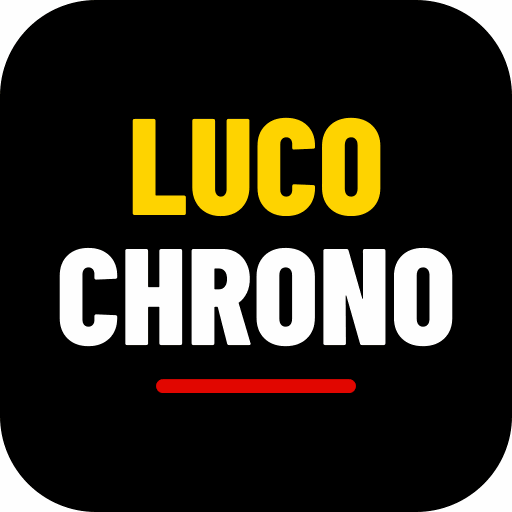
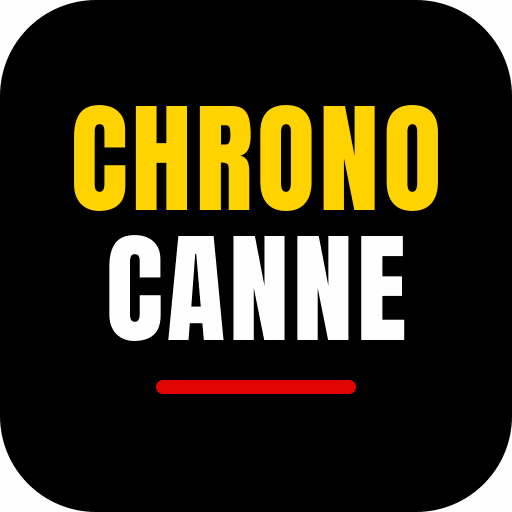
Nouveau nom : CHRONO CANNE, et nouvelle icône
L'adresse du site et le dépôt restent luco-chrono.

Changed region(s): [[0.0938, 0.1875, 0.9062, 0.6875]]

diff --git a/index.html b/index.html
@@ -12,8 +12,8 @@
 <meta name="apple-mobile-web-app-capable" content="yes">
 <meta name="mobile-web-app-capable" content="yes">
 <meta name="apple-mobile-web-app-status-bar-style" content="black">
-<meta name="apple-mobile-web-app-title" content="LUCO CHRONO">
-<title>LUCO CHRONO</title>
+<meta name="apple-mobile-web-app-title" content="CHRONO CANNE">
+<title>CHRONO CANNE</title>
 <!-- Polices réduites aux caractères latins et français (fonttools) : Barlow Condensed 600 pour les textes,
      Anton pour le titre, les chiffres et les boutons. Dans Anton, le « 1 » est élargi à la largeur des autres
      chiffres (et centré) : le chrono ne tremble pas quand les secondes défilent. -->
@@ -375,12 +375,12 @@ html.tourne-d body { transform: translateX(100dvw) rotate(90deg); }
 </head>
 <body>
 
-<div id="splash"><h2><span>LUCO</span>CHRONO</h2><i></i></div>
+<div id="splash"><h2><span>CHRONO</span>CANNE</h2><i></i></div>
 
 <!-- Réglages -->
 <section class="screen on" id="setup">
   <div class="tete">
-    <h1>LUCO CHRONO</h1>
+    <h1>CHRONO CANNE</h1>
     <button class="rond info" id="bInfo" aria-label="Infos"></button>
   </div>
   <div class="rows">

diff --git a/sw.js b/sw.js
@@ -1,4 +1,4 @@
-/* LUCO CHRONO : garde l'app en mémoire sur le téléphone pour qu'elle marche hors ligne.
+/* CHRONO CANNE : garde l'app en mémoire sur le téléphone pour qu'elle marche hors ligne.
 
    Au premier passage, tous les fichiers sont mis en cache. Ensuite l'app s'ouvre
    toujours depuis le cache (instantané, même en mode avion). Seule la page est
@@ -9,7 +9,7 @@
    tout de suite (l'app se recharge sur l'écran des réglages, jamais pendant un
    assaut). Tout fichier ajouté ou renommé doit aussi aller dans FICHIERS. */
 
-const VERSION = "luco-chrono-12";
+const VERSION = "luco-chrono-13";
 const FICHIERS = [
   "./",
   "./index.html",

diff --git a/CLAUDE.md b/CLAUDE.md
@@ -1,4 +1,6 @@
-# LUCO CHRONO
+# CHRONO CANNE
+
+**Nom de l'app : CHRONO CANNE** depuis le 5/11/2026 (avant : LUCO CHRONO). L'adresse et le dépôt restent `luco-chrono` (choix de Pierre : renommer le dépôt aurait cassé l'adresse et les apps déjà installées), comme le préfixe de `VERSION` dans `sw.js`. Icône refaite en Anton : CHRONO en jaune #ffd400, CANNE en blanc, trait rouge dessous (lettres converties en tracés depuis la police complète, PNG avec `qlmanage` puis Pillow).
 
 **Créé par Pierre Joëssel et Vincent Prunier** (demande de Pierre, 5/11/2026) : toujours citer les deux quand on parle des créateurs du projet (licence MIT, README, pied de la page d'infos, description, crédits).
 
@@ -11,7 +13,7 @@ Point de départ : `luco-chrono-hors-ligne (2).html` fourni par Pierre le 3/11/2
 Faite à partir d'un prompt de Pierre, après analyse et ses choix. Fonctionnement, sons et couleurs inchangés.
 
 - **Polices** : Anton (titre, chiffres, valeurs, boutons, mot d'état, intertitres) et Barlow Condensed 600 (petits textes). Barlow 800 retirée. Anton n'a pas de chiffres à largeur fixe : dans la copie intégrée, le « 1 » est élargi à la largeur des autres chiffres et centré (fonttools), sinon le chrono tremblait. Même sous-ensemble de caractères que Barlow (8,9 Ko). Licence : `OFL-Anton.txt` (pas de nom réservé, modification permise).
-- **Réglages** : « LUCO CHRONO » à gauche, petit bouton rond « i » à droite (`#bInfo`, dessiné en CSS : anneau de 30 px en dégradé radial, zone de toucher de 44 px ; demande de Pierre : « assez petit »). Le retour de la page d'infos a le même style. Trois cartes (`.carte.reglage`) : − à gauche, intitulé en petit au-dessus de la valeur au centre, + à droite. Les cartes grandissent avec la hauteur de l'écran. « Lancer » en pilule avec une icône play.
+- **Réglages** : « CHRONO CANNE » à gauche, petit bouton rond « i » à droite (`#bInfo`, dessiné en CSS : anneau de 30 px en dégradé radial, zone de toucher de 44 px ; demande de Pierre : « assez petit »). Le retour de la page d'infos a le même style. Trois cartes (`.carte.reglage`) : − à gauche, intitulé en petit au-dessus de la valeur au centre, + à droite. Les cartes grandissent avec la hauteur de l'écran. « Lancer » en pilule avec une icône play.
 - **Page d'infos** (`#infos`, un `.screen`) : seulement depuis les réglages ; retour par le chevron ou Échap. L'état reste « setup », donc la recharge après mise à jour marche aussi là. Contenu : comment ça marche, **pour entendre les sons** (carte teintée jaune, le point le plus important : bouton silencieux de l'iPhone, volume, garder l'app à l'écran), installer (étapes du README ; « ⋮ » écrit en toutes lettres « les trois points »), sans internet, pied de page avec le lien GitHub.
 - **Écran du chrono**, de haut en bas : ligne « 2e reprise … sur 3 » (pendant le repos : « 1 / 3 faites » centré, choix de Pierre pour ne pas écrire « Repos » deux fois) ; un segment par reprise (faites en gris clair, en cours dans la couleur de l'état, à venir en gris foncé ; ils ne se remplissent pas, choix de Pierre) ; la carte en cours (`.cur`, **teinte légère** de la couleur de l'état, choix de Pierre plutôt que la couleur pleine) avec le voile du temps écoulé (`.voile`, `scaleX`) ; la carte « Ensuite » (`.next`, ce qui vient, sa durée, dans la couleur de l'état qui arrive ; cachée à la fin) ; les boutons en pilules, icône play (CSS, `clip-path`) seulement sur « Lancer » et « Lancer la 2e » (**pas d'icône sur Pause ni Reprendre**, choix de Pierre ; la classe `.ico.pause` existe mais ne sert plus), `nowrap`, texte un peu réduit au-delà de 11 caractères (« Lancer la 10e »). Tout est recalculé par `vue()`, appelée par `changerEtat()`.
 - **Animation** (`glisser()`, Web Animations, 0,4 s) : à chaque enchaînement (combat vers repos, repos ou « Lancer la 2e » vers combat, fin de l'assaut), une copie figée de l'ancienne carte recule vers le haut en s'effaçant, la nouvelle carte monte, opaque, depuis la place de la carte « Ensuite », et la nouvelle carte « Ensuite » arrive par le bas. Rien pour pause / reprendre, rien si mouvement réduit.
@@ -37,7 +39,7 @@ Faite à partir d'un prompt de Pierre, après analyse et ses choix. Fonctionneme
 
 Remis au propre le 3/11/2026, sans changer le comportement (testé par de vrais clics : réglages, pause, temps d'arrêt, enchaînement des reprises, fin d'assaut).
 
-- **Mise en page** : titre « LUCO CHRONO » centré. Chaque écran (`.screen`) fait au plus 560 px de large, centré (tablette, ordi), et c'est un conteneur `container-type: size` : les tailles en `cqw`/`cqh` suivent l'écran. Titre et intitulés grandissent avec l'écran (`clamp`). Réglages (`/impeccable layout` du 4/11/2026) : intitulés centrés, **8 px** au-dessus de leur réglage, réglages séparés de `clamp(28px, 6cqh, 56px)` (33 px en 320×568, 47 px en 375×812) et groupe des trois centré entre le titre et « Lancer » (`justify-content: center`, plus `space-evenly` qui donnait des écarts tous égaux). Récap de fin : 8 px sous les chiffres. Anneaux des + et − fins et discrets (3 px, jaune à 45 %, contraste 3,1:1) pour que « Lancer » soit le seul gros jaune de l'écran ; contour d'« Arrêter » à 3 px. Les + et − des cercles sont **dessinés en CSS** (`.step::before/::after`, le nom du bouton est dans `aria-label`) : avec les caractères de la police, ils tombaient sous le centre. Texte des gros boutons centré à l'œil (demande de Pierre, 4/11/2026) : la police place ses lettres .04em sous le centre, compensé par un padding bas plus grand (`.actions button` : `padding-bottom: .08em` à hauteur fixe ; `.go` : `calc(18px - .04em)` en haut, `calc(18px + .04em)` en bas). Mesuré à l'encre avec un texte témoin « HHH » : 0 px d'écart entre le vide au-dessus et en dessous (1 px sur la confirmation). Les valeurs (`.ctl .v`) sont remontées de 0,05em pour être au niveau du centre des cercles (mesuré : écart restant < 0,2 px). Tailles vérifiées le 3/11/2026 en 320×568, 375×812 et 768×1024 : rien ne déborde.
+- **Mise en page** : titre centré. Chaque écran (`.screen`) fait au plus 560 px de large, centré (tablette, ordi), et c'est un conteneur `container-type: size` : les tailles en `cqw`/`cqh` suivent l'écran. Titre et intitulés grandissent avec l'écran (`clamp`). Réglages (`/impeccable layout` du 4/11/2026) : intitulés centrés, **8 px** au-dessus de leur réglage, réglages séparés de `clamp(28px, 6cqh, 56px)` (33 px en 320×568, 47 px en 375×812) et groupe des trois centré entre le titre et « Lancer » (`justify-content: center`, plus `space-evenly` qui donnait des écarts tous égaux). Récap de fin : 8 px sous les chiffres. Anneaux des + et − fins et discrets (3 px, jaune à 45 %, contraste 3,1:1) pour que « Lancer » soit le seul gros jaune de l'écran ; contour d'« Arrêter » à 3 px. Les + et − des cercles sont **dessinés en CSS** (`.step::before/::after`, le nom du bouton est dans `aria-label`) : avec les caractères de la police, ils tombaient sous le centre. Texte des gros boutons centré à l'œil (demande de Pierre, 4/11/2026) : la police place ses lettres .04em sous le centre, compensé par un padding bas plus grand (`.actions button` : `padding-bottom: .08em` à hauteur fixe ; `.go` : `calc(18px - .04em)` en haut, `calc(18px + .04em)` en bas). Mesuré à l'encre avec un texte témoin « HHH » : 0 px d'écart entre le vide au-dessus et en dessous (1 px sur la confirmation). Les valeurs (`.ctl .v`) sont remontées de 0,05em pour être au niveau du centre des cercles (mesuré : écart restant < 0,2 px). Tailles vérifiées le 3/11/2026 en 320×568, 375×812 et 768×1024 : rien ne déborde.
 - **Typographie** (`/impeccable typeset` du 4/11/2026) : une seule police, Barlow Condensed 600 (textes) et 800 (chiffres, boutons, mot d'état), chiffres en `tabular-nums`. Rôles en 375 px : chiffres 176, valeurs des réglages 75, « Lancer » 47, boutons 34, titre 34 (capitales, interlettrage .04em), mot d'état 31 (capitales, .08em), ligne du haut 29, intitulés et récap de fin 25 (même rôle, même taille `clamp(22px, 7.5cqw, 30px)`), « appui long » 16 minimum. Tous les gros boutons à .02em d'interlettrage. Question de confirmation en `text-wrap: balance`.
 - Tout dans `index.html`. En tête : liens vers les icônes et le manifeste, réglages iPhone, puis les polices en base64 (2 lignes très longues dans le premier `<style>`, ne pas les toucher à la main). Polices **réduites** le 3/11/2026 avec `pyftsubset` (fonttools) : latin de base, Latin-1 (accents français), Œ œ Ÿ, guillemets et apostrophes typographiques, tirets, points de suspension, €, signe moins ; fonctions gardées : kern, tnum, liga, ccmp, locl. 22 Ko → 12 Ko chacune. Si un texte ajouté utilise un autre caractère, il s'affichera dans la police de secours : refaire le sous-ensemble depuis la police complète (github.com/jpt/barlow). Ensuite : CSS par écran, HTML commenté, puis le script.
 - Script en sections : Réglages, Sons, Écran gardé allumé, Chrono, Boutons, Toujours en portrait, Hors ligne, Démarrage. Noms en français (`etat`, `reprise`, `finA`, `demarrerReprise`, `finirReprise`…).

diff --git a/README.md b/README.md
@@ -1,4 +1,4 @@
-# LUCO CHRONO
+# CHRONO CANNE
 
 Chrono de reprises pour la **canne de combat**, créé par **Pierre Joëssel et Vincent Prunier** au club Les Cannes du Luco. Pensé pour un téléphone posé au bord du tapis : gros chiffres, gros boutons, des sons pour chaque moment de l'assaut.
 
@@ -24,7 +24,7 @@ Pas besoin de store : l'app s'installe depuis le navigateur. Il faut du réseau 
 1. Ouvrir **https://pjoessel.github.io/luco-chrono/** dans **Safari**.
 2. Appuyer sur le bouton **Partager** (le carré avec une flèche vers le haut).
 3. Choisir **« Sur l'écran d'accueil »**, puis **« Ajouter »**.
-4. L'icône LUCO CHRONO apparaît sur l'écran d'accueil : l'app s'ouvre en plein écran.
+4. L'icône CHRONO CANNE apparaît sur l'écran d'accueil : l'app s'ouvre en plein écran.
 
 ⚠ Sur iPhone, le **bouton silencieux** coupe aussi les sons de l'app : le désactiver avant un assaut.
 
@@ -33,7 +33,7 @@ Pas besoin de store : l'app s'installe depuis le navigateur. Il faut du réseau 
 1. Ouvrir **https://pjoessel.github.io/luco-chrono/** dans **Chrome**.
 2. Appuyer sur le menu **⋮** en haut à droite.
 3. Choisir **« Installer l'application »** (ou **« Ajouter à l'écran d'accueil »** selon la version), puis confirmer.
-4. L'icône LUCO CHRONO apparaît avec les autres apps.
+4. L'icône CHRONO CANNE apparaît avec les autres apps.
 
 ### Mises à jour
 
@@ -51,7 +51,7 @@ Toute l'app tient dans **un seul fichier, `index.html`**, sans outil ni dépenda
 - **Textes** : en français dans le HTML et dans le script (« Lancer », « Repos », « Terminé »…).
 - **Réglages par défaut et limites** : dans le script, partie « Réglages » (`S = { n: 3, d: 120, r: 60 }`, en secondes).
 - **Sons** : partie « Sons » du script. Ils sont fabriqués par le navigateur (Web Audio), il n'y a aucun fichier son. La fonction `cloche` fait un ding : on choisit sa note, sa durée et son volume.
-- **Nom et logo** : « LUCO CHRONO » et son icône sont ceux de notre club. Si tu publies ta version, mets ton propre nom et ton logo : le titre dans `index.html`, le nom dans `manifest.webmanifest`, et les images du dossier `icons/`.
+- **Nom et logo** : « CHRONO CANNE » et son icône sont ceux de notre club. Si tu publies ta version, mets ton propre nom et ton logo : le titre dans `index.html`, le nom dans `manifest.webmanifest`, et les images du dossier `icons/`.
 - **Après chaque modif publiée** : changer `VERSION` en haut de `sw.js` (par exemple `luco-chrono-4`). Les téléphones prennent alors la nouvelle version dès qu'ils sont sur l'écran des réglages (jamais pendant un assaut). Un fichier ajouté ou renommé doit aussi aller dans la liste `FICHIERS`, pour marcher hors ligne.
 
 Le fichier `CLAUDE.md` décrit le code et les choix faits en détail. Il sert aussi de point de départ si tu modifies l'app avec Claude.
